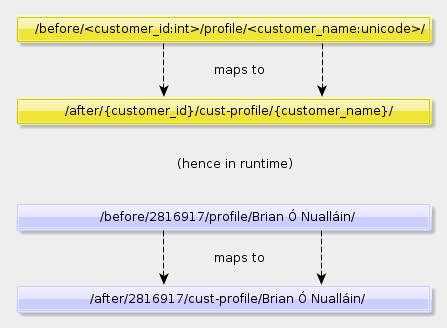
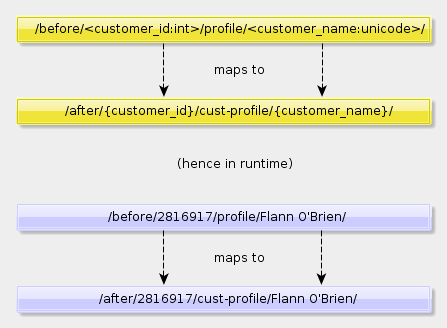
Added URL-rewriting examples.

Changed region(s): [[0.2036, 0.8841, 0.8143, 0.9451], [0.2036, 0.6402, 0.8143, 0.7012]]

diff --git a/docs/site/hyde-src/content/documentation/ref-docs/url-rewrite.html b/docs/site/hyde-src/content/documentation/ref-docs/url-rewrite.html
@@ -9,7 +9,10 @@
 {% block section_title %}URL rewriting{% endblock %}
 
 {% block exercises %}
-    <li>Look up <b>Brian Ó Nualláin</b> on
+    <li>Configure URL rewriting so that the /foo/123/bar/ZXC/baz/9900/ URL
+        gets rewritten into /qq/ZXC?foo=123?baz=9900
+    </li>
+    <li>Look up <b>Flann O'Brien</b> on
         <a href="http://www.wikipedia.org">Wikipedia</a>
         <img src="/media/gfx/external-link.png" alt="" />
         and read all of the novels mentioned there. (OK, that was supposed
@@ -45,9 +48,28 @@ and the names can be used for constructing new URLs, like in this example:
 That is, it's possible to state that a pattern of the URL the client application
 invokes - such as <b>/before/\<customer_id:int\>/profile/\<customer_name:unicode\>/</b>
 gets mapped into a backend server's <b>/after/{customer_id}/cust-profile/{customer_name}/</b>
-pattern. Hence in runtime, a client application's invoking the <b>/before/2816917/profile/Brian Ó Nualláin/</b>
-URL will result in sec-wall's invoking the backend's URL of <b>/after/2816917/cust-profile/Brian Ó Nualláin/</b>
+pattern. Hence in runtime, a client application's invoking the <b>/before/2816917/profile/Flann O'Brien/</b>
+URL will result in sec-wall's invoking the backend's URL of <b>/after/2816917/cust-profile/Flann O'Brien/</b> -
+in other words, the names matched may be put between curly bracket to help form new URLs.
 
+The complete configuration, one that should be added to
+<a href="/documentation/ref-docs/config-file.html">the config.py file</a>,
+might look like the one below, the key is to use the <b>rewrite</b> option of
+a given URL's configuration dictionary.
+
+{% syntax python %}
+def url_rewrite_sample():
+    return {
+        'custom-http': True,
+        'custom-http-Accept-Language':'en-us,en;q=0.5',
+        'host': 'http://example.com/',
+        'rewrite': '/after/{customer_id}/cust-profile/{customer_name}/'
+    }
+
+urls = [
+    ('/before/<customer_id:int>/profile/<customer_name:unicode>/', url_rewrite_sample()),
+]
+{% endsyntax %}
 
 <h2 id="examples">Examples</h2>
 
